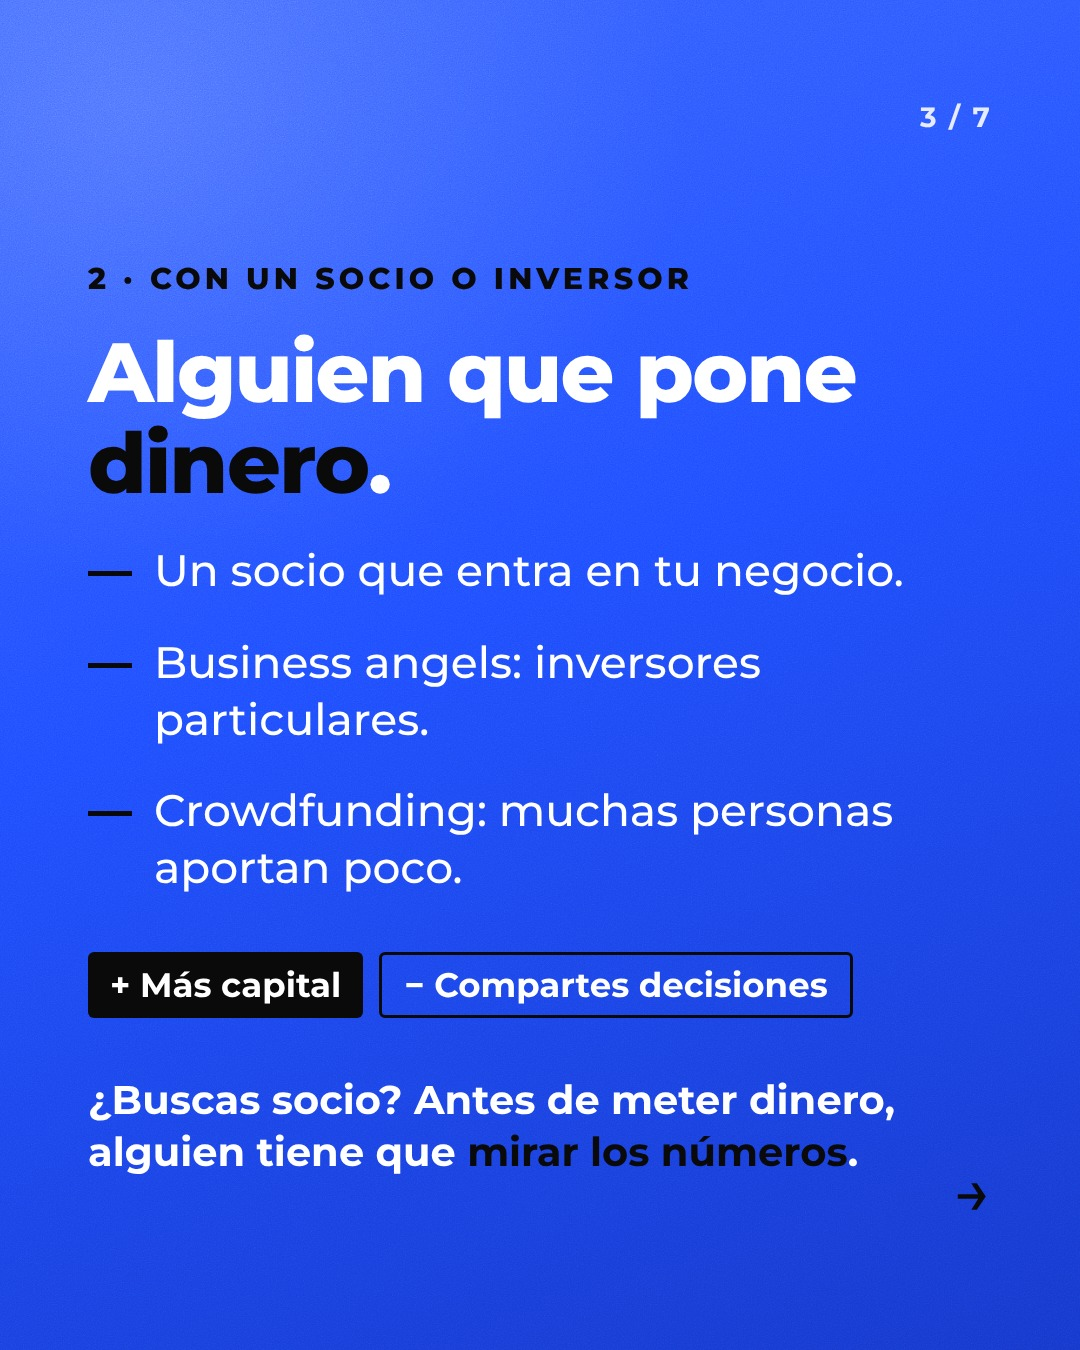
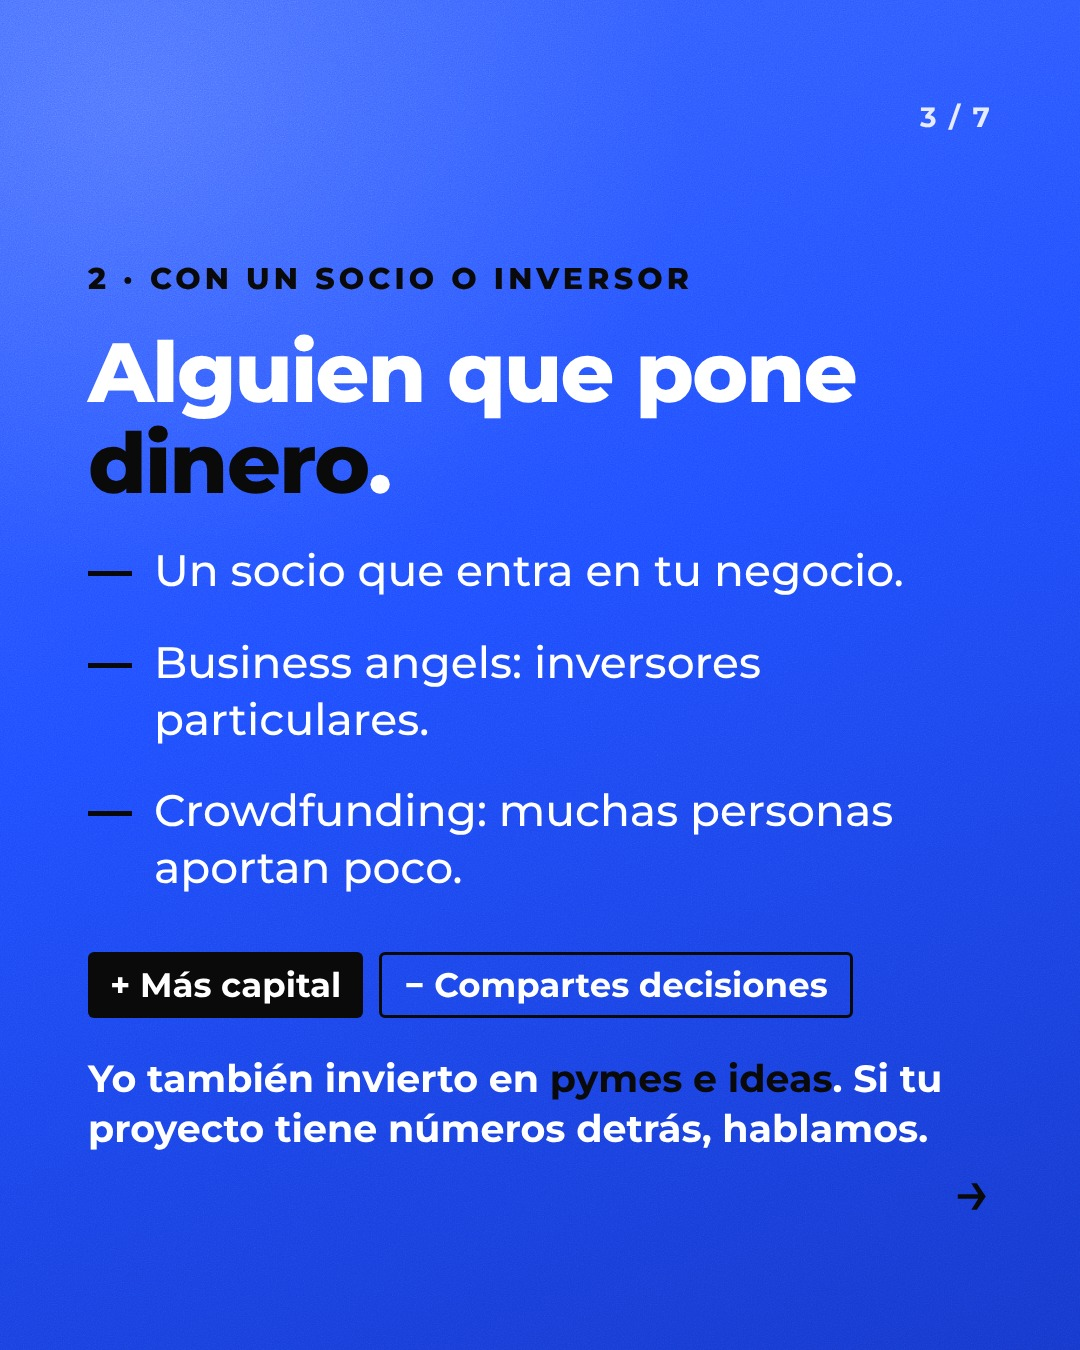
12-financiacion: diapositiva 3 con Alejandro como inversor
Claude-Session: https://claude.ai/code/session_017QZaA8qgokDHtEnzxU5B1Y

Changed region(s): [[0.0611, 0.7778, 0.8861, 0.8711]]

diff --git a/tools/render_12_financiacion.py b/tools/render_12_financiacion.py
@@ -65,7 +65,7 @@ slides = [
                    "Business angels: inversores particulares.",
                    "Crowdfunding: muchas personas aportan poco."],
                   "Más capital", "Compartes decisiones",
-                  extra=f'<p style="margin:56px 0 0;font-size:40px;font-weight:700;line-height:1.3">¿Buscas socio? Antes de meter dinero, alguien tiene que {K}mirar los números</span>.</p>')),
+                  extra=f'<p style="margin:36px 0 0;font-size:38px;font-weight:700;line-height:1.3">Yo también invierto en {K}pymes e ideas</span>. Si tu proyecto tiene números detrás, hablamos.</p>')),
     page(4, lista("3 · AYUDAS PÚBLICAS", f"Dinero que no se {K}devuelve</span>.",
                   ["Tarifa plana: 80 €/mes de cuota el primer año.",
                    "Cuota cero (Andalucía): la Junta te devuelve esos 80 €, si la convocatoria está abierta.",
